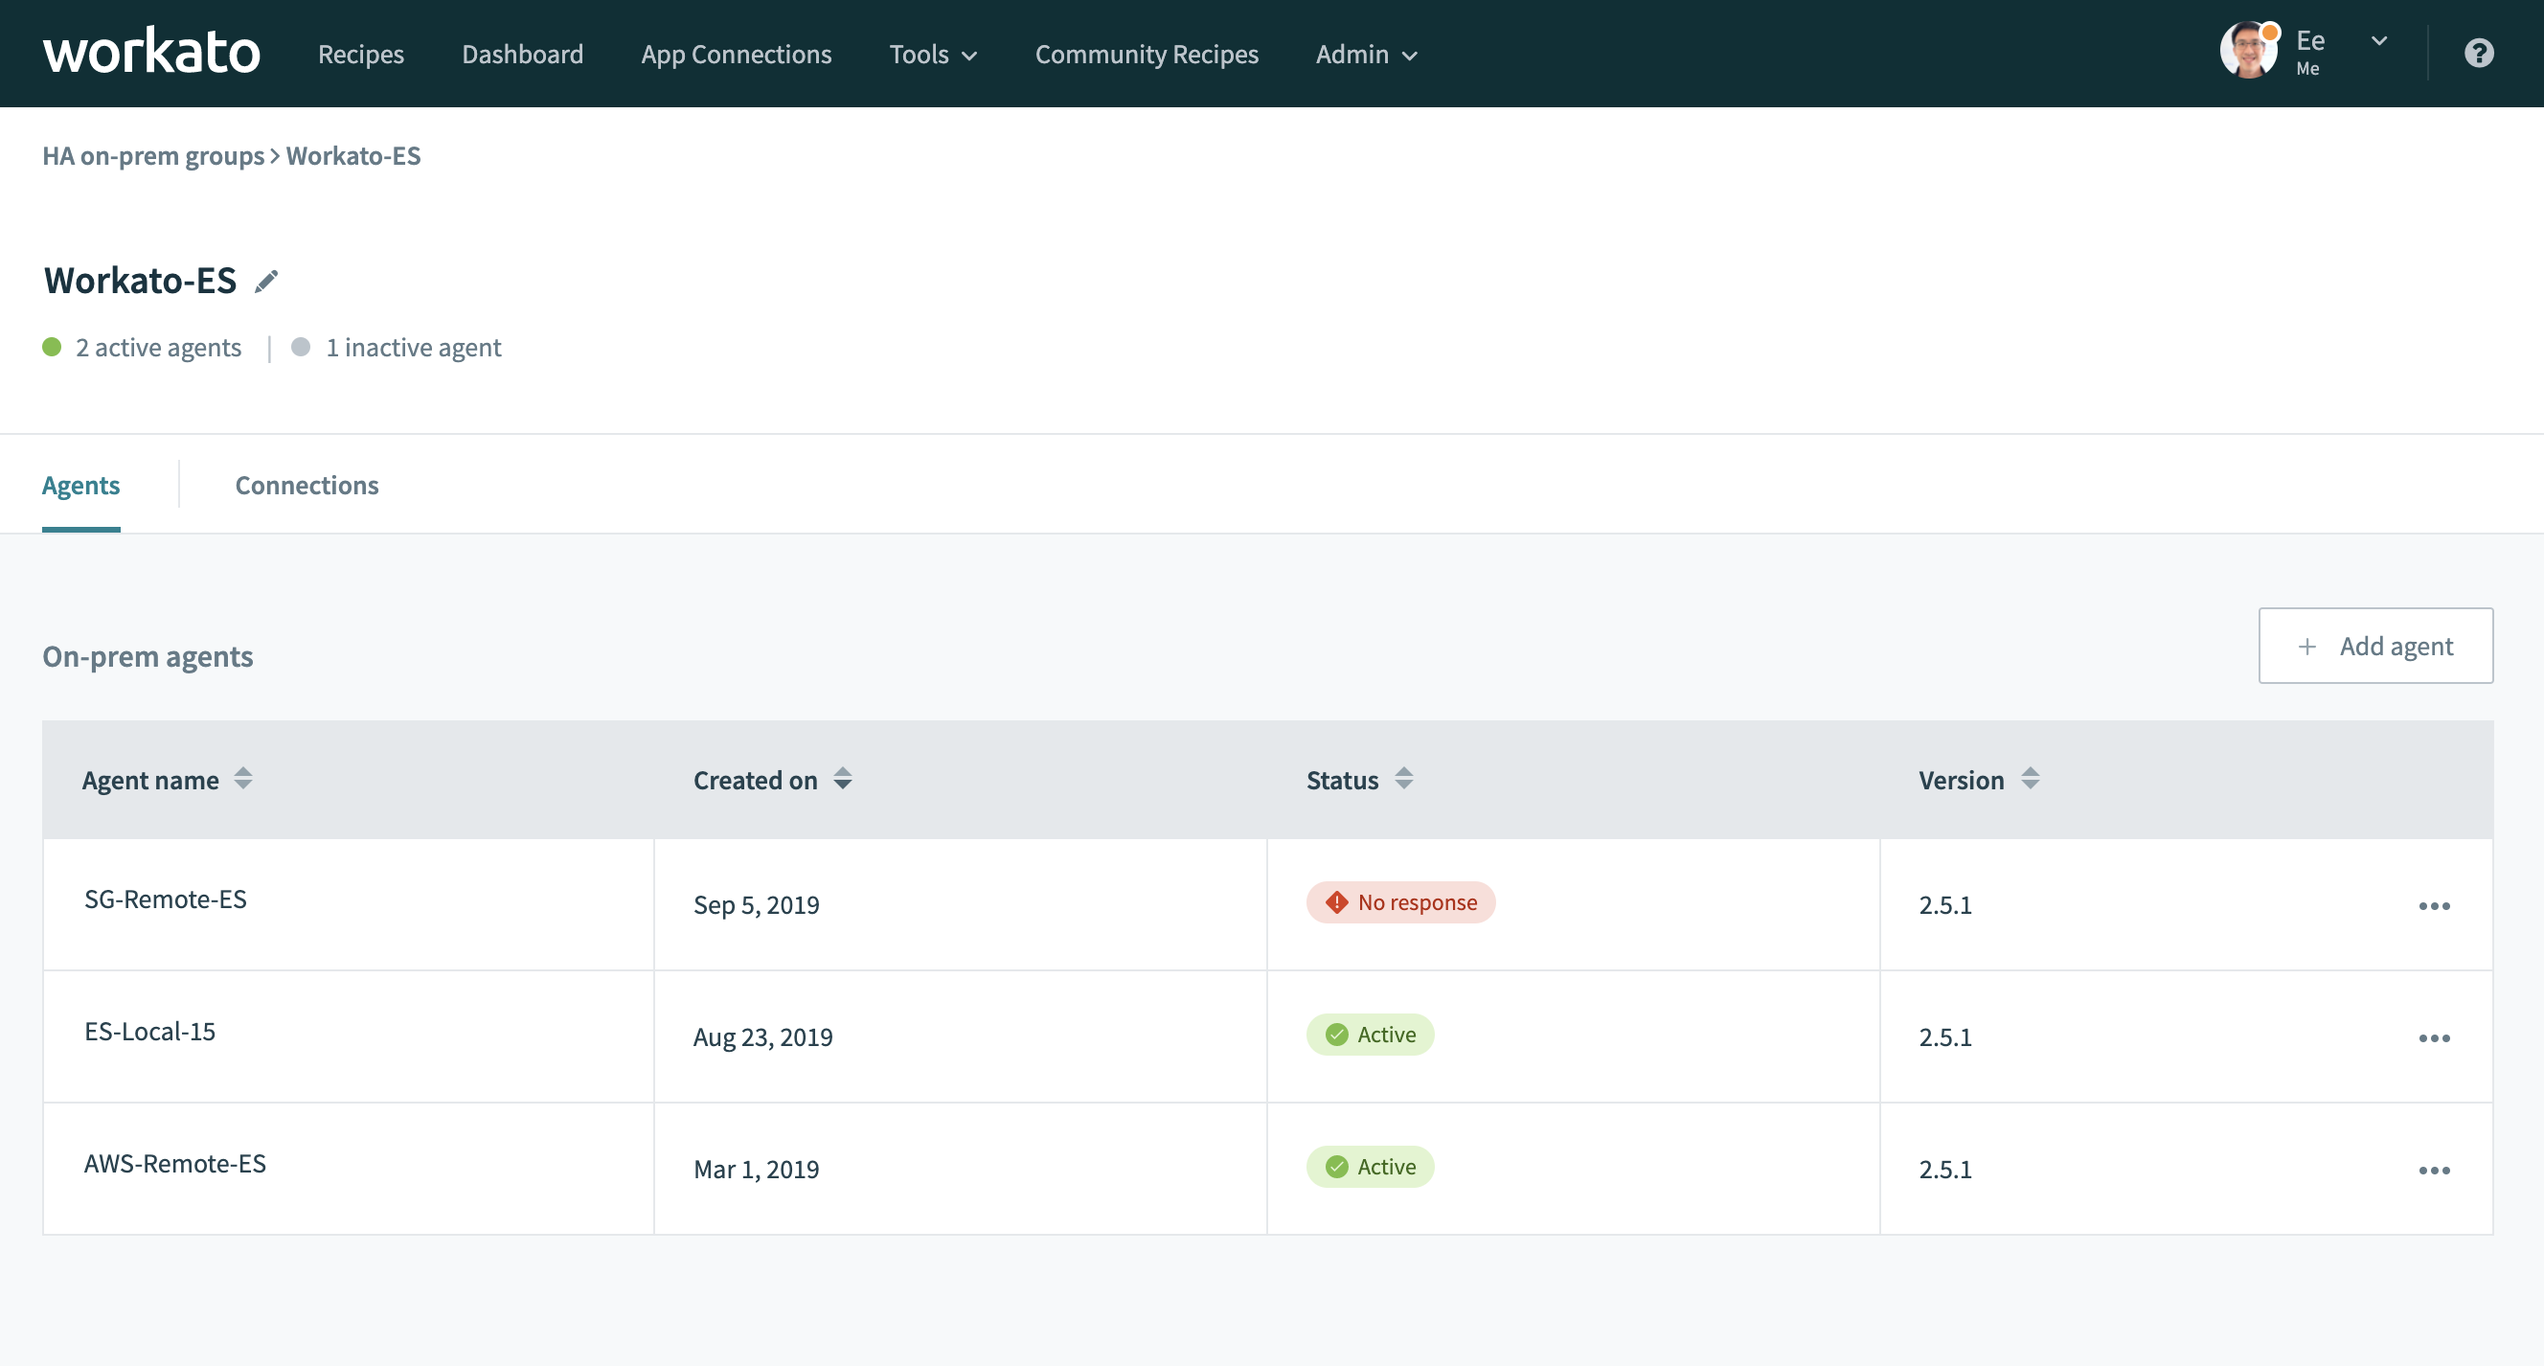
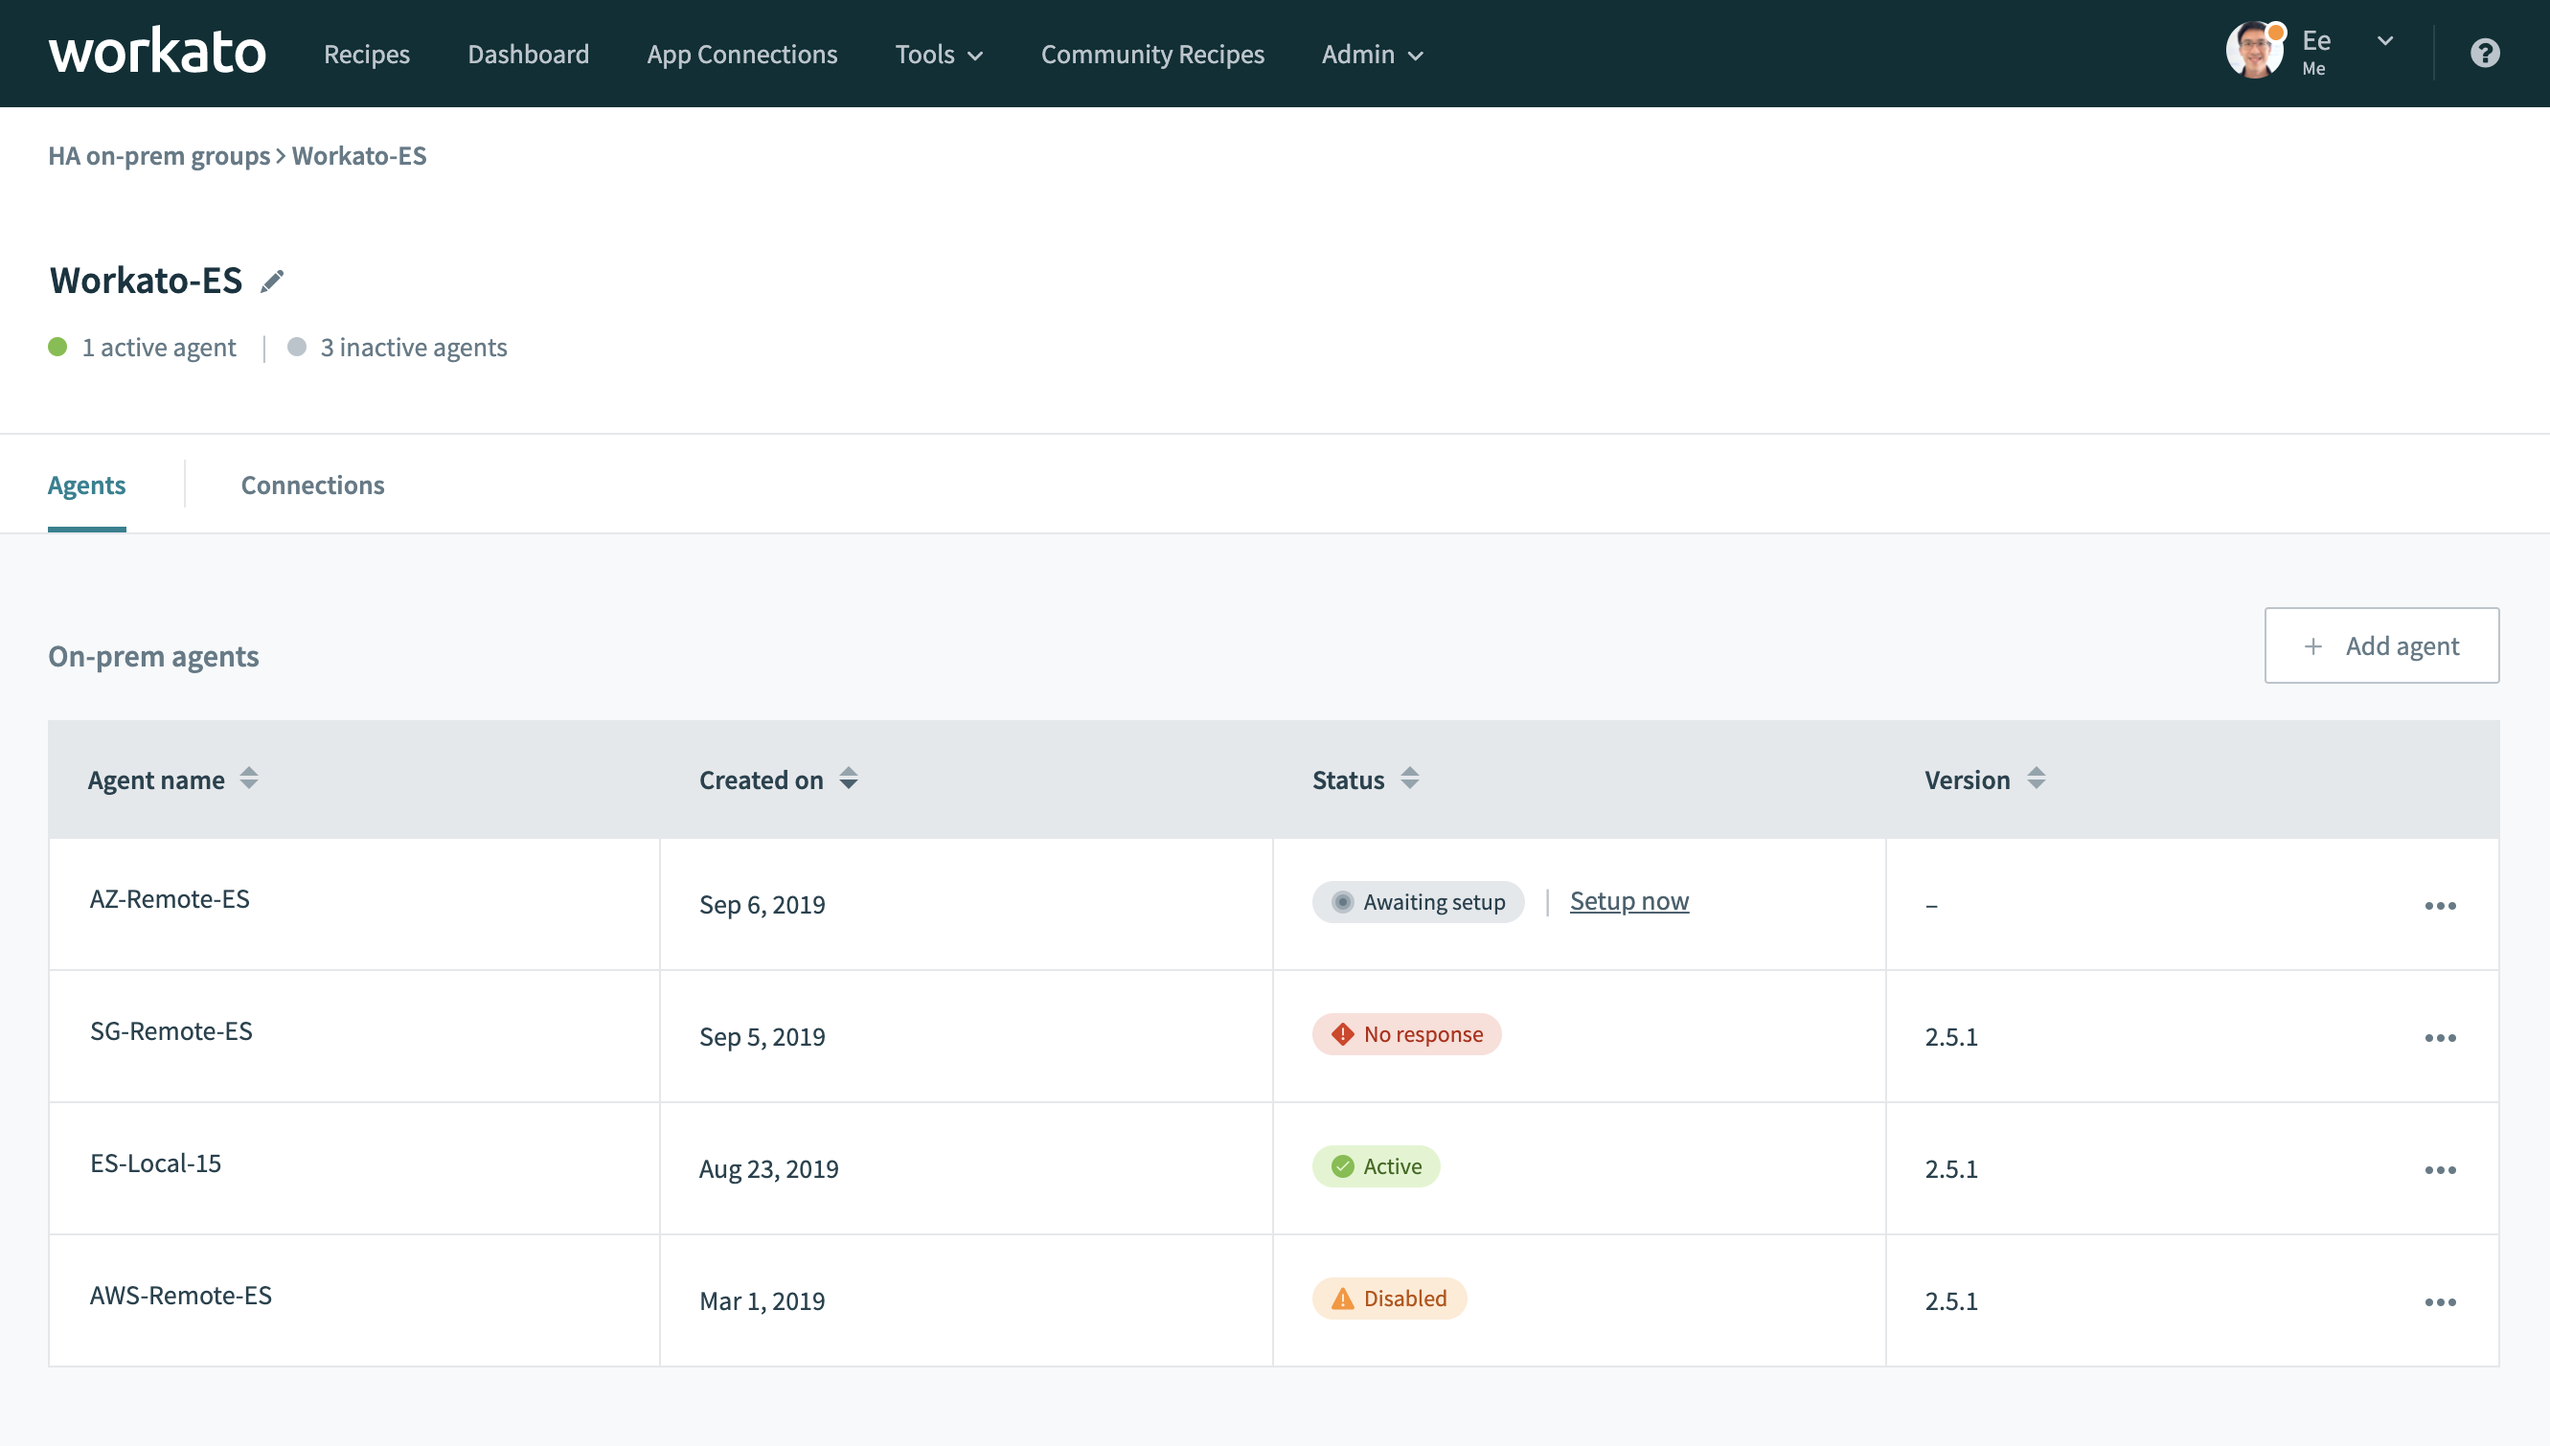
update group status

diff --git a/on-prem/groups/group-status.md b/on-prem/groups/group-status.md
@@ -14,7 +14,17 @@ The status of an on-prem group depends on the status of the on-prem agents that 
 ![On-prem agents in a group](/assets/images/on-prem/agents-in-groups-statuses.png)
 *On-prem agents in a group*
 
-Clicking into an on-prem group will show you the state of each agent in the group. A group must have at least one active agent for it to be an active group.
+Clicking into an on-prem group will show you the state of each agent in the group. An agent can have the following statuses.
+
+| Status         | Description |
+| -------------- | :---------- |
+| Awaiting setup | This agent has not completed the setup. Agent setup is complete only when it has successfully connected for the first time. |
+| No response    | This agent is currently not responding. This could be due to a number of reasons. Usually, this is because the agent is shut down or if the secure connection between Workato and the server is broken. |
+| Active         | This agent is active and can process requests from Workato. |
+| Disabled       | This agent is manually disabled. Requests will not be sent to this agent. It can be manually enabled to establish an active connection again. |
+
+### Active on-prem group
+An on-prem group must have at least one active agent for it to be an active group.
 
 > **Groups with more than one active agent will achieve high availability with redundancy and load balancing.**
 

diff --git a/on-prem/groups.md b/on-prem/groups.md
@@ -8,7 +8,7 @@ date: 2019-09-05 12:00:00 Z
 ![On-prem groups](/assets/images/on-prem/on-prem-groups.png)
 *On-prem groups*
 
-On-prem group is a logical grouping of one or more on-prem agents into a common connection pool. Workload is distributed evenly to all agents in an non-prem group. A recipe that uses an on-prem group with more than one active agent achieves high availability and has a few advantages.
+On-prem group is a logical grouping of one or more on-prem agents into a common connection pool. Workload is distributed evenly to all agents in an non-prem group. A recipe that uses an on-prem group with more than one active agent achieves **High availability**. This has a few advantages.
 
 ## High Availability
 High Availability is the ability of a system to be continuously operational for a long period of time. For any system to be highly available, every part of a system needs to be present and functional in order for the whole to be operational. This is typically achieved through **Redundancy** and **Load balancing**.
